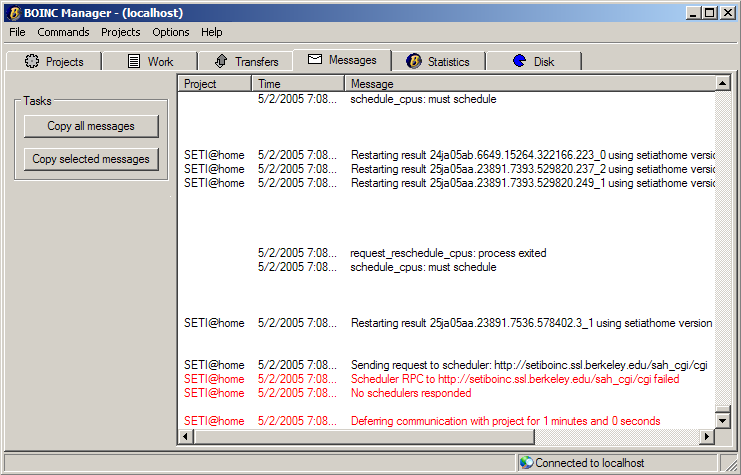
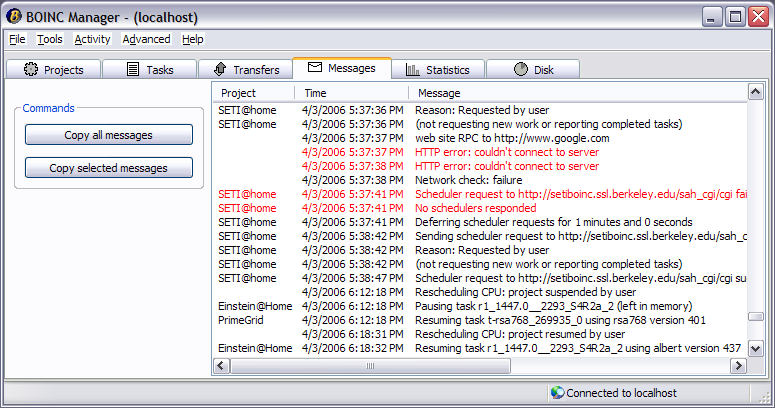
dir_hier_path
svn path=/trunk/boinc/; revision=9794

diff --git a/doc/manager.php b/doc/manager.php
@@ -6,10 +6,10 @@ echo "
 The <b>BOINC manager</b> program is available for Windows, Mac OS X
 and Linux.  It controls the use of your computer's disk, network, and
 processor resources, and is normally started at boot time.
+<br>
 <br>On Windows, the BOINC Manager is represented by an icon in the system tray.
 <br>On Mac OS X, it is represented by icons in both the menubar and the Dock.
 <!-- ** ROM ** is there an equivalent on Linux to the system tray icon? -->
-
 
 <p>
 On Windows:
@@ -29,25 +29,14 @@ On Mac OS X:
 The icon menu choices are:
 <ul>
 <li> <b>Open BOINC Manager</b>: opens the current BOINC Manager.
-<li> <b>Run always</b>: do work, regardless of preferences.
-<li> <b>Run based on preferences</b>: do work
-    when your <a href=prefs.php>preferences</a> allow it.
-<li> <b>Suspend</b>: stop work (computation and file transfer).
-<li> <b>Network activity always available</b>: always allow BOINC to
-contact the project servers when it needs to.
-<li> <b>Network activity based on preferences</b>: allow BOINC to contact
-the project servers only when your <a href=prefs.php>preferences</a>
-allow it.
-<li> <b>Network activity suspended</b>: setting this keeps BOINC
-from attempting to contact any of the project servers.  It is useful
-for those on dial-up connections who do not want to be bothered with
-BOINC prompting to connect or disconnect for a time.
+<li> <b>Snooze</b>: stop work (computation and file transfer).
 <li> <b>About BOINC Manager</b>:  displays useful information about the
 BOINC Manager.
 <li> <b>Exit</b>:  exit the BOINC manager and all running BOINC applications.
 No further work will take place until you run the BOINC manager again.
 <br>(On Mac OS X, this menu item is called <b>Quit</b>.)
 </ul>
+<br>
 <img src=mgrsystrayballoon.png>
 <p>
 Hovering over the BOINC icon will display a status balloon which contains
@@ -57,19 +46,23 @@ computer it is connected to (Windows only).
 <h2>Projects</h2>
 <p>Shows the projects in which this computer is participating.
 <img src=mgrprojects.png>
+<p>
 
+<h3>Status messages</h3>
 <ul>
 <li>Suspended by user:
     The project is currently suspended.
 <li>Retry in ...:
     The client will wait the specified amount of time before attempting
     to contact the project server again.
-<li>Won't get new work:
+<li>Won't get new tasks:
     The project will not fill the cache for this project
-    when it runs out of work.
+    when it runs out of tasks.
 </ul>
 
+<h3>Commands</h3>
 <p>Click on a project name to enable the following additional buttons:
+
 <ul>
 <li> <b>Allow new work</b>:
     Allow the project to download additional work, if needed.
@@ -82,7 +75,7 @@ computer it is connected to (Windows only).
     and start from scratch.
     Use this if BOINC has become stuck for some reason.
 <li> <b>Resume</b>:
-    Resumes processing of a previous suspended project.
+    Resumes processing of a previously suspended project.
 <li> <b>Suspend</b>:
     Suspends any further processing of this project.
 <li> <b>Update</b>:
@@ -91,15 +84,16 @@ computer it is connected to (Windows only).
     get more work if necessary,
     and get your latest <a href=prefs.php>preferences</a>.
 </ul>
+<h3>Web sites</h3>
 
 <p>Project administrators can add <a href=gui_urls.php>buttons</a>
    to the manager to quickly navigate the project website.
 
-<h2>Work</h2>
-<p>Shows the work units currently on your computer.
+<h2>Tasks</h2>
+<p>Shows the tasks currently on your computer.
 <img src=mgrwork.png>
 
-<p>Each work unit is either:
+<p>Each task is either:
     <ul>
 <li>Aborted by user:
     Result has been aborted.
@@ -115,9 +109,18 @@ computer it is connected to (Windows only).
 <li>Running:
     Elapsed CPU time and estimated percent done is shown.
 <li>Suspended by user:
-    Result has been suspended.
+    Result has been suspended by the user.  Use the 'Resume' button on 
+    this tab to resume the result.
 <li>Uploading:
     Output files are being uploaded.
+<li>Activities Suspended:
+    BOINC is suspended, either thru the Command->Suspend menu item or 
+    benchmarks are running
+<li>Project suspended by user:
+    Project has been suspended by user.  Use the 'Resume' button on the
+    Projects tab to resume the project.
+</ul>
+
 </ul>
 
 <p>Click on a result name to enable the following additional buttons:
@@ -126,7 +129,8 @@ computer it is connected to (Windows only).
     Abort processing for a result. NOTE: This will prevent you from receiving
     credit for any work already completed.
 <li> <b>Resume</b>:
-    Resumes processing of a previous suspended result.
+    Resumes processing of a previously suspended result.  
+    Note, this applies to tasks with status 'Suspended by user'.
 <li> <b>Show graphics</b>:
     Open a window showing application graphics.
 <li> <b>Suspend</b>:
@@ -165,6 +169,7 @@ computer it is connected to (Windows only).
     Messages can be sorted by project or time.
     You can <a href=client_msgs.php>control what messages are shown</a>.
     Messages are also written to a file 'stdoutdae.txt'.
+<br>
 <img src=mgrmessages.png>
 
 <p>Click on one or more messages to enable the following additional buttons:
@@ -205,15 +210,26 @@ The BOINC manager has the following menus:
 <ul>
 <li> <b>File</b>
     <ul>
-    <li><b>Select Computer</b>: Allows you to control BOINC on a different
-        computer
-<!--  ** ROM ** is this correct?  Please add more details as appropriate -->
     <li> <b>Exit</b>:  exit the BOINC manager and all running BOINC applications.
         No further work will take place until you run the BOINC manager again.
         <br>(On Mac OS X, this is under the BOINC menu as <b>Quit BOINC</b>.)
     </ul>
 
-<li> <b>Commands</b>
+<br>
+<li> <b>Tools</b>
+    <ul>
+    <li> <b>Attach to project</b>:
+        enroll this computer in a project.
+        You must have already created an account with the project.
+        You will be asked to enter the project's URL and either your account key
+        or your email address and password, depending on the project.
+<!-- ** ROM ** Please add a link to a page with details on using the Wizard. -->
+    <li> <b>Account Manager</b>: attach to one or more new projects using an
+        account manager web site.  See <a href=/acct_mgrs.php>Account managers</a>
+    </ul>
+
+<br>
+<li> <b>Activity</b>
     <ul>
     <li> <b>Run always</b>: do work, regardless of preferences.
     <li> <b>Run based on preferences</b>: do work
@@ -228,27 +244,15 @@ The BOINC manager has the following menus:
         from attempting to contact any of the project servers.  It is useful
         for those on dial-up connections who do not want to be bothered with
         BOINC prompting to connect or disconnect for a time.
-    <li><b>Retry Communications</b>: retry any deferred communications.
-    <li><b>Run Benchmarks</b>:
-        run benchmark functions, which measure the speed of your processor.
-        BOINC does this automatically,
-        but you can repeat it whenever you want.
-        The results are shown in the Messages tab.
-    </ul>
- 
-<li> <b>Projects</b>
-    <ul>
-    <li> <b>Attach to new project</b>:
-        enroll this computer in a project.
-        You must have already created an account with the project.
-        You will be asked to enter the project's URL and either your account key
-        or your email address and password, depending on the project.
-<!-- ** ROM ** Please add a link to a page with details on using the Wizard. -->
-    <li> <b>Account Manager</b>: attach to one or more new projects using an
-        account manager web site.  See <a href=/acct_mgrs.php>Account managers</a>
+        <br><br>Note: Selecting an option that requires contacting a project will
+        temporarily enable network activity regardless of this setting.  It
+        includes updating a project, retrying file transfers, retrying 
+        communications and attaching to projects.  The network will remain
+        enabled for five  minutes.
     </ul>
 
-<li> <b>Options</b>
+<br>
+<li> <b>Advanced</b>
     <ul>
     <li> <b>Options</b>: opens a dialog allowing you to select your preferred
         language, how often you wish to be reminded of the need to connect to
@@ -258,7 +262,19 @@ The BOINC manager has the following menus:
         <br>Windows only: use this dialog to tell BOINC your method of connecting
         to the Internet.
 <!--  ** ROM ** Please add a link to a page with details on using this dialog. -->
+    <li><b>Select Computer</b>: Allows you to control BOINC on a different
+        computer
+<!--  ** ROM ** is this correct?  Please add more details as appropriate -->
+
+    <li><b>Run Benchmarks</b>:
+        run benchmark functions, which measure the speed of your processor.
+        BOINC does this automatically,
+        but you can repeat it whenever you want.
+        The results are shown in the Messages tab.
+    <li><b>Retry Communications</b>: retry any deferred communications.
     </ul>
+
+<br>
 <li> <b>Help</b>
     <ul>
     <li> <b>BOINC Manager</b>: open a web page with instructions for using the

diff --git a/doc/win_install.php b/doc/win_install.php
@@ -17,11 +17,10 @@ BOINC is listed in the Start menu of the installing user,
 but not other users.
 <p>
 The 'Show graphics' command in the BOINC manager
-will work only for the installing user.
-The BOINC screensaver will only show application
+works only for the installing user.
+The BOINC screensaver only shows application
 graphics only for the installing user
-(other users can run the screensaver but will see
-textual information only).
+(other users can run the screensaver but will see textual information only).
 
 <h2>Shared installation</h2>
 <p>
@@ -32,14 +31,10 @@ BOINC is listed in the Start menu of all users.
 <p>
 While BOINC is running, it runs as a particular user
 (either the first user to log in, or the first to run BOINC).
-The 'Show graphics' command in the BOINC manager,
-will work only for this user.
-The BOINC screensaver will only show application
-graphics only for this user
-(other users can run the screensaver but will see
-textual information only).
-
-
+The 'Show graphics' command in the BOINC manager
+works only for this user.
+The BOINC screensaver shows application graphics only for this user
+(other users can run the screensaver but will see textual information only).
 
 <h2>Service installation</h2>
 <p>
@@ -54,22 +49,24 @@ The BOINC screensaver will only show textual information.
 
 <h2>Customizing the installer</h2>
 <p>
-The new BOINC installer is an MSI package.
+The BOINC installer is an MSI package.
 
 <h3>Active Directory Deployment</h3>
 
 Suppose you want to modify it so that you can
 deploy BOINC across a Windows network using Active Directory,
-and have all the PCs attached to a particular account.
-Here is how to do this:
+and have all the PCs attached to a particular set of accounts.
+Here's how to do this:
 
 
 <ul>
 <li> Download the BOINC client package and execute it with the /a parameter.
-<li> Drop the files to a share that can be accessed by all the computers on the network.
+<li> Move the files to a directory that can be accessed
+by all the computers on the network.
 <li> Using <a href=http://support.microsoft.com/kb/255905/EN-US/>Microsoft ORCA</a>,
 or some other MSI packaging tool, create an MSI Transform that contains the 
-account_*.xml files of the projects you have already attached too on another machine
+account_*.xml files of the projects you have already attached to
+on another machine
 plus the following parameters:
     <ul>
     <li>Single-user install:<br>

diff --git a/doc/hier_dir.php b/doc/hier_dir.php
@@ -41,21 +41,17 @@ the right directory before calling <a href=tools_work.php>create_work()</a>.
 To do this, it can use the function
 ".html_text("
 int dir_hier_path(
-    const char* filename, const char* root, int fanout, bool newhash, char* result, bool make_directory_if_needed
+    const char* filename, const char* root, int fanout, char* result,
+    bool make_directory_if_needed=false
 );
 ")."
 This takes a name of the input file
 and the absolute path of the root of the download hierarchy
 (typically the download_dir element from config.xml)
 and returns the absolute path of the file in the hierarchy.
-For new projects, newhash should be set to true.  This argument may eventually
-disappear: it was added to work around a poor initial choice of hashing
-function for determining fanout directory names.  Generally make_directory_if_needed should also be set to true: this creates a fanout directory if needed
+Generally make_directory_if_needed should be set to true:
+this creates a fanout directory if needed
 to accomodate a particular file.
-
-Note: you may see this function occuring at times with the final argument
-missing.  In this case C++ defaults to setting make_directory_if_needed==false.
-[DAVID: PLEASE CONFIRM!]
 
 <p>
 Secondly, your validator and assimilator should call

diff --git a/doc/tools_work.php b/doc/tools_work.php
@@ -137,15 +137,15 @@ dir_hier_path(
     const char* filename,
     const char* root,       // root of download directory
     int fanout,             // from config.xml
-    bool new_hash,          // use true here
-    char* result            // path of file in hierarchy
+    char* result,           // path of file in hierarchy
+    bool create_dir=false   // create dir if it's not there
 );
 </pre>
 If you're using scripts, you can invoke the program
 <pre>
 dir_hier_path filename
 </pre>
-It prints the full pathname.
+It prints the full pathname and creates the directory if needed.
 Run this in the project's root directory.
 For example:
 <pre>

diff --git a/tools/dir_hier_path.C b/tools/dir_hier_path.C
@@ -20,7 +20,8 @@
 // dir_hier_path filename
 //
 // Run this in a project's root directory.
-// Prints the absolute path of the file in the download hierarchy
+// Prints the absolute path of the file in the download hierarchy,
+// and creates the directory if needed.
 
 #include "config.h"
 #include <stdio.h>
@@ -40,7 +41,7 @@ int main(int /*argc*/, char** argv) {
         exit(1);
     }
 
-    dir_hier_path(argv[1], "", config.uldl_dir_fanout, path);
+    dir_hier_path(argv[1], "", config.uldl_dir_fanout, path, true);
     printf("%s%s\n", config.download_dir, path);
 }
 

diff --git a/doc/prefs_impl.php b/doc/prefs_impl.php
@@ -113,11 +113,11 @@ Project preferences are represented by an XML element of the form:
         </project_specific>
     </venue>
 </project_preferences>
-")."`
+")."
 
 On the client, the project prefs are stored
 in a file account_XXX.xml,
-which has the additional elements <lt;master_url> and <lt;authenticator>.
+which has the additional elements <lt;master_url&gt; and <lt;authenticator&gt;.
 <p>
 A scheduler RPC reply always includes project prefs.
 <p>

diff --git a/doc/code_signing.php b/doc/code_signing.php
@@ -31,7 +31,7 @@ the code-signing machine.
 A USB-connected disk or CD-RW will work,
 or if your files are small you can use a floppy disk.
 <li>
-Install <a href=key_setup>crypt_prog</a> on the code signing machine
+Install <a href=key_setup.php>crypt_prog</a> on the code signing machine
 (it's easiest if the machine runs Unix/Linux;
 Windows can be used but requires Visual Studio 2003).
 

diff --git a/doc/compile.php b/doc/compile.php
@@ -24,6 +24,8 @@ echo "
 <ul>
 <li> <a href=test.php>Test applications and scripts</a>
 <li> <a href=ssl_build.txt>Build instructions for SSL (Secure Socket Layer) client</a>
+<li> <a href=private_label.txt>Graphics files needed for
+a 'private-label' BOINC client</a>.
 </ul>
 ";
 page_tail();
